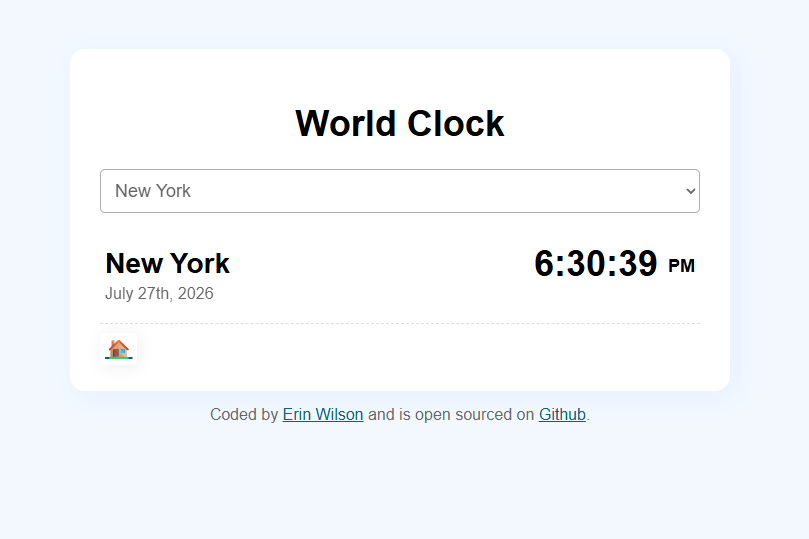
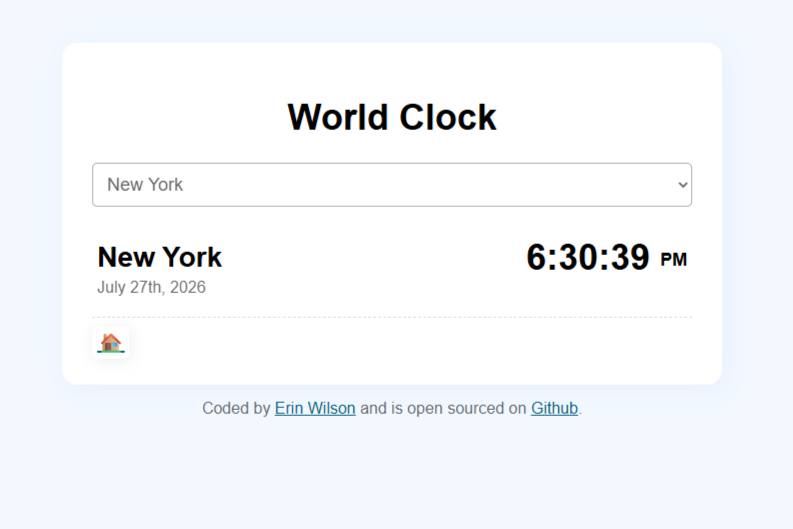
Added links to the projects and added my skills to the About page

diff --git a/work.html b/work.html
@@ -58,50 +58,47 @@
 
     <div class="content-section container">
       <div class="content">
-        <h1 class="mb-5">My Work that I'v been working on!</h1>
+        <h1 class="mb-5">My Projects</h1>
 
         <div class="row">
-          <div class="col-md p-3">
-            <img
-              src="images/weather.png"
-              alt="Weather Project"
-              class="img-fluid rounded mb-3"
-            />
-            <h3 class="text-center mb-0">Weather Project</h3>
+          
+          <!--The most recent project I maded and 1st in the list-->
+         <div class="col-md-6 p-3">
+            <a
+              href="https://dictionary-project-fawn.vercel.app/"
+              target="_blank"
+              title="View Website"
+            >
+              <img
+                src="images/dictionary.png"
+                alt="Dictionary Project"
+                class="img-fluid rounded mb-3 shadow-sm"
+              />
+            </a>
+            <h3 class="text-center mb-0">Dictionary Project</h3>
             <p class="text-center text-muted">
               Opened sourced on
               <a
-                href="https://github.com/ewilson001500-tech/Weather_Project"
+                href="https://github.com/ewilson001500-tech/Favorite-Hobby"
                 target="_blank"
                 >GitHub</a
               >
             </p>
           </div>
+          
+          <!--The fifth project I maded and 2nd in the list-->
           <div class="col-md p-3">
-            <img
-              src="images/poem.png"
-              alt="The AI Poem Generator Project"
-              class="img-fluid rounded mb-3"
-            />
-            <h3 class="text-center mb-0">Poem Project</h3>
-            <p class="text-center text-muted">
-              Opened sourced on
-              <a
-                href="https://github.com/ewilson001500-tech/Poem-Generator"
-                target="_blank"
-                >GitHub</a
-              >
-            </p>
-          </div>
-        </div>
-
-        <div class="row p-4">
-          <div class="col-md p-3">
-            <img
-              src="images/world-clock.png"
-              alt="World Clock Project"
-              class="img-fluid rounded mb-3"
-            />
+            <a
+              href="https://world-clock-eta-nine.vercel.app/"
+              target="_blank"
+              title="View website"
+            >
+              <img
+                src="images/world-clock.png"
+                alt="World Clock Project"
+                class="img-fluid rounded mb-3 shadow-sm"
+              />
+            </a>
             <h3 class="text-center mb-0">Clock Project</h3>
             <p class="text-center text-muted">
               Opened sourced on
@@ -112,23 +109,110 @@
               >
             </p>
           </div>
+        </div>
+
+        <div class="row p-4">
+          
+          <!--The Fourth project I maded and 3rd in the list-->
           <div class="col-md p-3">
-            <img
-              src="images/puzzles.png"
-              alt="Favorite Hobby Project"
-              class="img-fluid rounded mb-3"
-            />
-            <h3 class="text-center mb-0">Puzzle Project</h3>
+            <a
+              href="https://poem-generator-iota-three.vercel.app/"
+              target="_blank"
+              title="View Website"
+            >
+              <img
+                src="images/houston.png"
+                alt="The Vist Houston Project"
+                class="img-fluid rounded mb-3 shadow-sm"
+              />
+            </a>
+            <h3 class="text-center mb-0">Vist Houson Project</h3>
             <p class="text-center text-muted">
               Opened sourced on
               <a
-                href="https://github.com/ewilson001500-tech/Favorite-Hobby"
+                href="https://github.com/ewilson001500-tech/Poem-Generator"
                 target="_blank"
                 >GitHub</a
               >
             </p>
           </div>
-        </div>
+
+              <!--The third project I maded and 4th in the list-->
+          <div class="col-md p-3">
+            <a
+              href="https://world-clock-eta-nine.vercel.app/"
+              target="_blank"
+              title="View website"
+            >
+              <img
+                src="images/world-clock.png"
+                alt="World Clock Project"
+                class="img-fluid rounded mb-3 shadow-sm"
+              />
+            </a>
+            <h3 class="text-center mb-0">Clock Project</h3>
+            <p class="text-center text-muted">
+              Opened sourced on
+              <a
+                href="https://github.com/ewilson001500-tech/world-clock"
+                target="_blank"
+                >GitHub</a
+              >
+            </p>
+          </div>
+      </div>
+
+        <div class="row p-4">
+
+          <!--The Second final project I maded and 5th in the list-->
+          <div class="col-md p-3">
+            <a
+              href="https://poem-generator-iota-three.vercel.app/"
+              target="_blank"
+              title="View Website"
+            >
+              <img
+                src="images/poem.png"
+                alt="The AI Poem Generator Project"
+                class="img-fluid rounded mb-3 shadow-sm"
+              />
+            </a>
+            <h3 class="text-center mb-0">Poem Project</h3>
+            <p class="text-center text-muted">
+              Opened sourced on
+              <a
+                href="https://github.com/ewilson001500-tech/Poem-Generator"
+                target="_blank"
+                >GitHub</a
+              >
+            </p>
+          </div>
+
+          <!--The first project I maded and last in the list-->
+           <div class="col-md p-3">
+            <a
+              href="https://weather-project-1cc7.vercel.app/"
+              target="_blank"
+              title="View Website"
+            >
+              <img
+                src="images/weather.png"
+                alt="Weather Project"
+                class="img-fluid rounded mb-3 shadow-sm"
+              />
+            </a>
+            <h3 class="text-center mb-0">Weather Project</h3>
+            <p class="text-center text-muted">
+              Opened sourced on
+              <a
+                href="https://github.com/ewilson001500-tech/Weather_Project"
+                target="_blank"
+                >GitHub</a
+              >
+              <br />
+              <small>Click the image to view website</small>
+            </p>
+          </div>
       </div>
     </div>
     <footer>

diff --git a/about.html b/about.html
@@ -55,6 +55,7 @@
         </ul>
       </nav>
     </div>
+    </div>
 
     <div class="container">
       <div class="row content-section">
@@ -86,7 +87,53 @@
           />
         </div>
       </div>
-    </div>
+      <h3 class="skill-section-title">Skilled I learned</h3>
+      <div class="container skill-section">
+        <div class="row">
+          <div class="col-3">
+            <img
+              src="icons/VSCode.png"
+              alt="VSCode icon"
+              class="img-fluid rounded"
+            />
+          </div>
+          <div class="col-3">
+            <img
+              src="icons/bootstrap.png"
+              alt="Bootstrap Icon"
+              class="img-fluid rounded"
+            />
+          </div>
+          <div class="col-3">
+            <img
+              src="icons/responsive.png"
+              alt="Responsive Icon"
+              class="img-fluid rounded"
+            />
+          </div>
+          <div class="col-3">
+            <img src="icons/seo.png" alt="SEO Icon" class="img-fluid rounded" />
+          </div>
+        </div>
+        <div class="row">
+          <div class="col-3">
+            <img src="icons/api.png" alt="API icon" class="img-fluid rounded" />
+          </div>
+          <div class="col-3">
+            <img src="icons/AI.png" alt="AI Icon" class="img-fluid rounded" />
+          </div>
+          <div class="col-3">
+            <img
+              src="icons/react.png"
+              alt="React Icon"
+              class="img-fluid rounded"
+            />
+          </div>
+          <div class="col-3">
+            <img src="icons/Git.png" alt="Git Icon" class="img-fluid rounded" />
+          </div>
+        </div>
+      </div>
     <footer>
       <div class="links d-flex justify-content-center">
         <a

diff --git a/src/style.css b/src/style.css
@@ -134,6 +134,35 @@ nav li {
   text-decoration: underline;
 }
 
+.skill-section-title {
+  text-align: center;
+  font-weight: 800;
+  font-size: 32px;
+  margin-top: 40px;
+  font-family: var(--heading-font-family);
+}
+
+.skill-section{
+  background-color: #E5EBE5;
+  padding: 22px 15px;
+  border-radius: 16px;
+  margin: 20px auto;
+  max-width: 800px;
+  height: 250px;
+}
+
+.skill-section .row{
+  width: 730px;
+  margin: 0 auto;
+  padding:5px 0;
+}
+
+.skill-section img {
+  height: 90px;
+  display: block;
+  margin: 0 auto;
+}
+
 footer {
   padding-top: 75px;
 }
@@ -225,5 +254,22 @@ footer p a {
     font-size: 15px;
     display: block;
     text-align: center;
+  }
+
+  .skill-section-title{
+    margin-top: 0;
+  }
+
+  .skill-section{
+    height: auto;
+    margin: 0 auto;
+  }
+
+  .skill-section .row{
+    width: 300px;
+  }
+
+  .skill-section img{
+    height: inherit;
   }
 }
